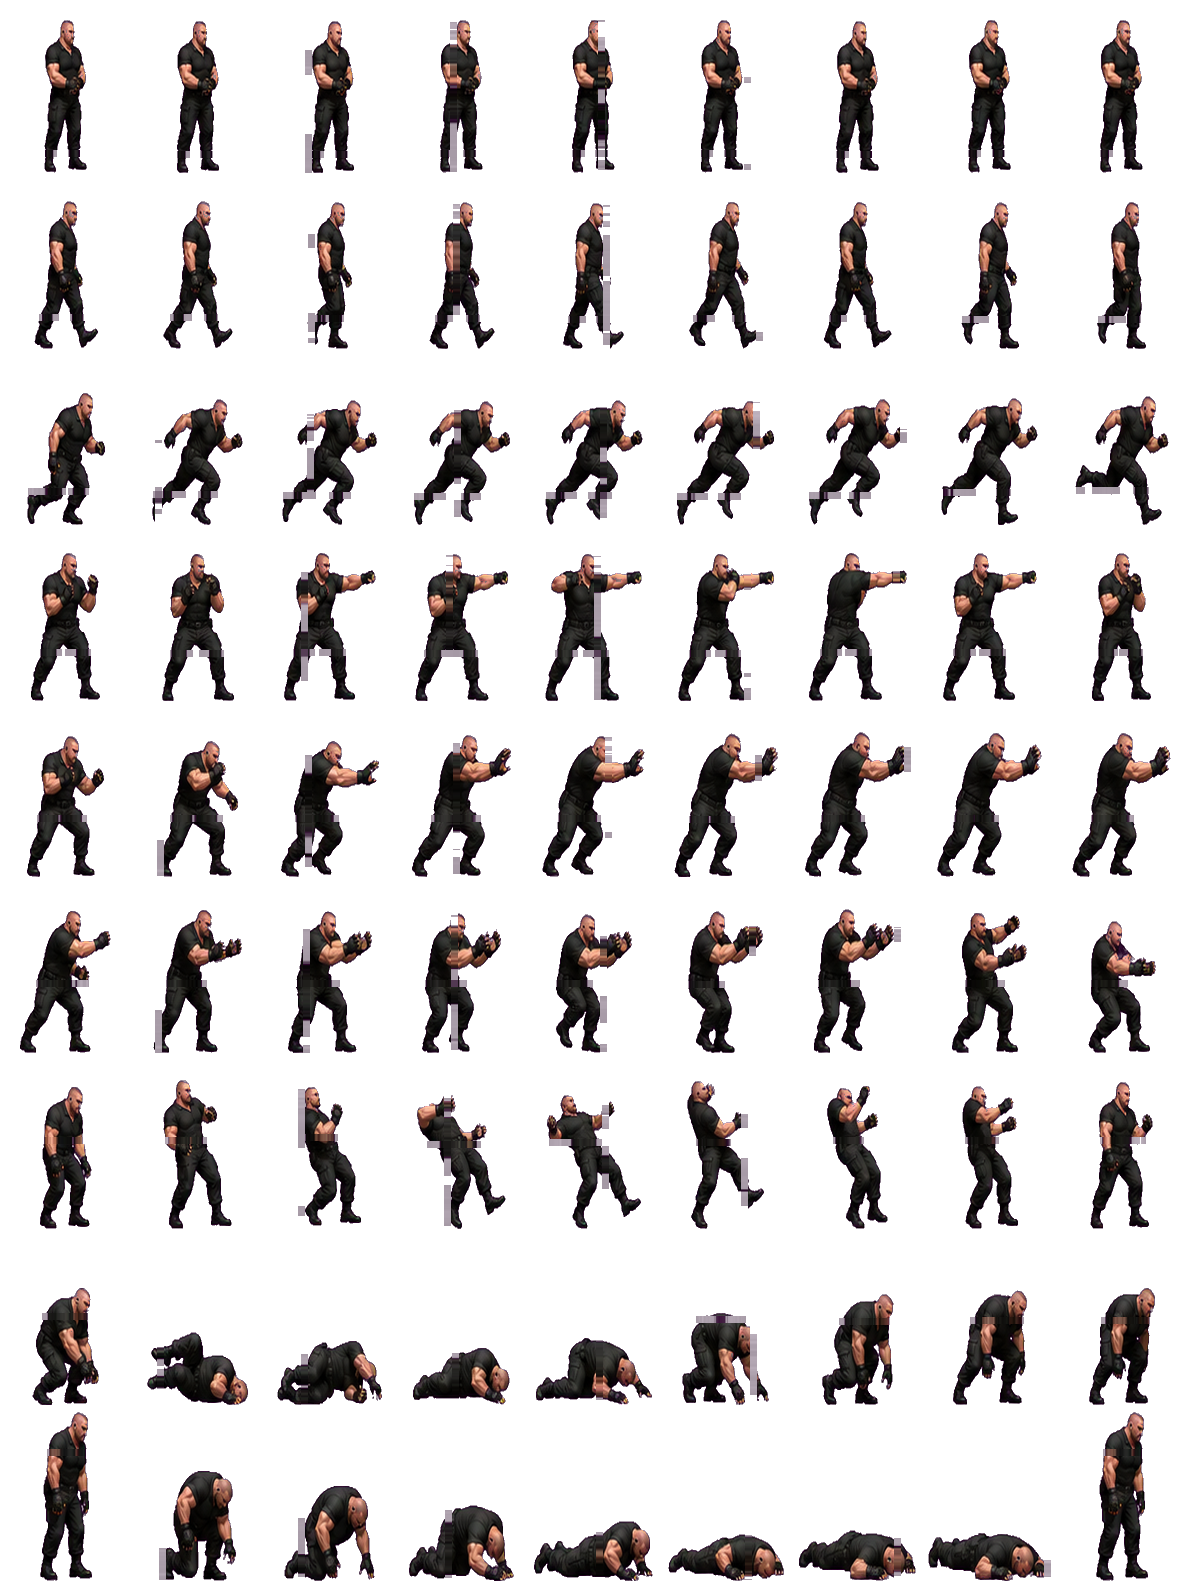
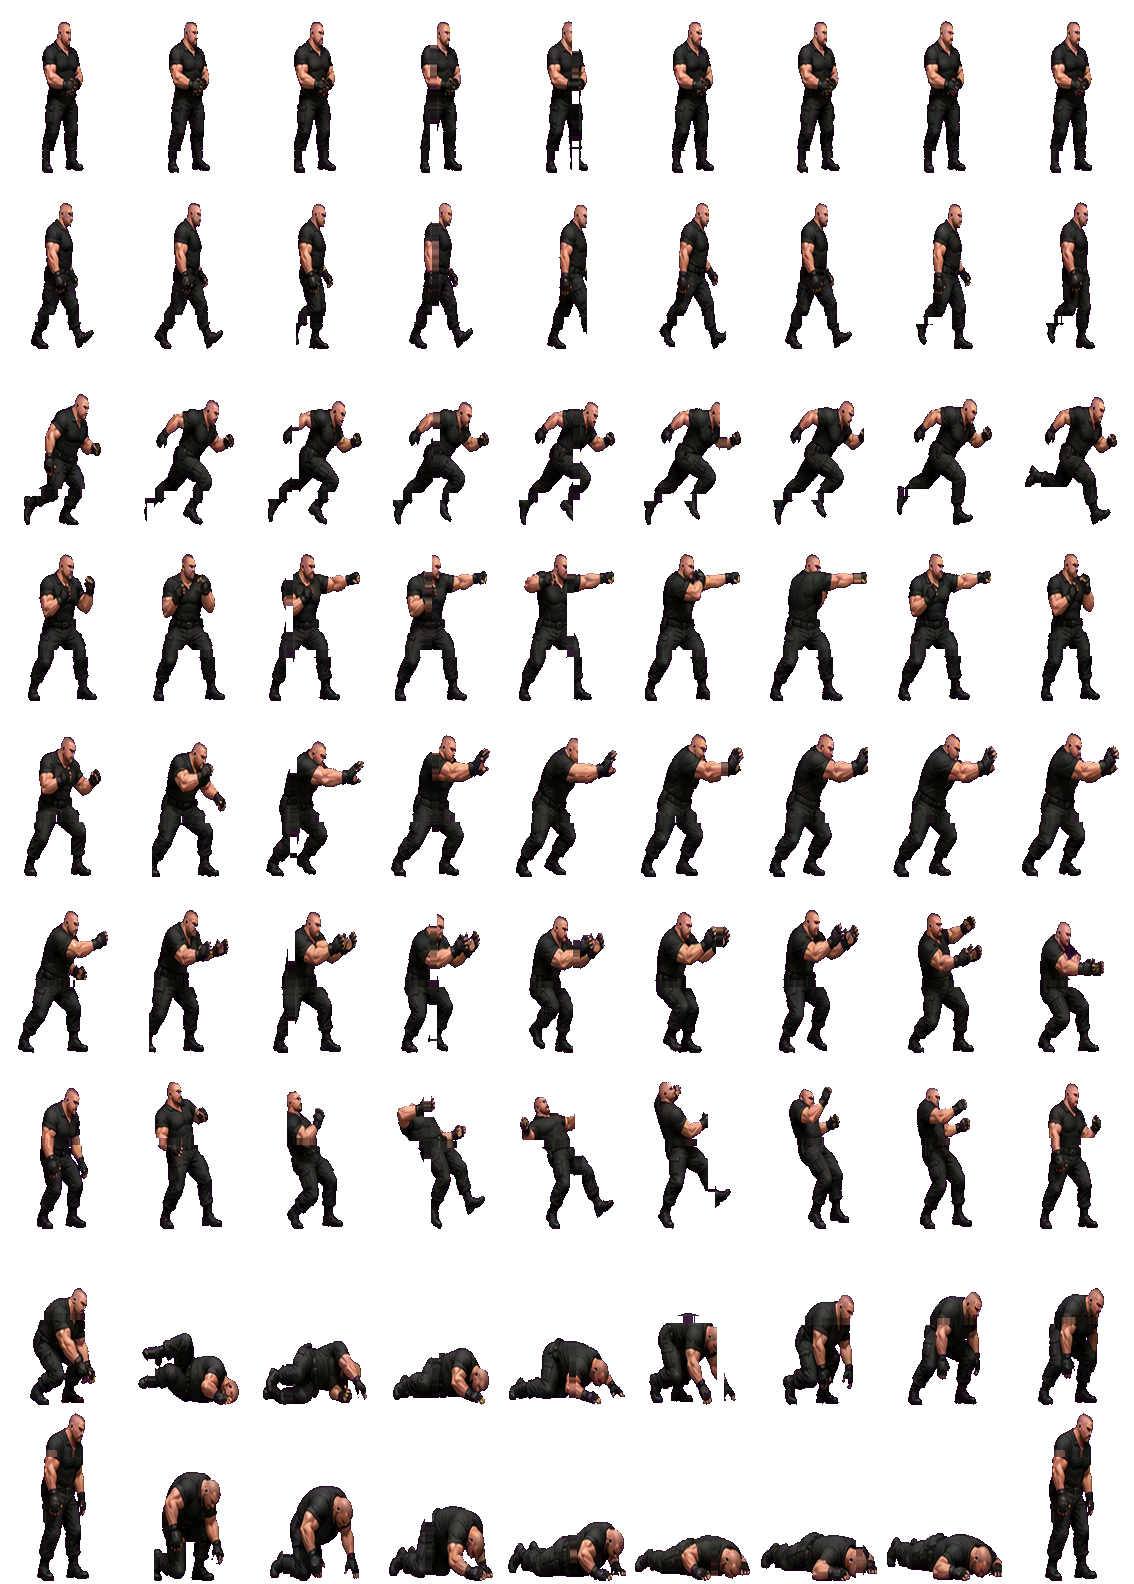
feat: solid 2.5D obstacle collision + crisp sprite edges (Hito 061)
Objects were walk-through scenery — a flat-2D feel in a 2.5D brawler.
Adds a pure Solids module (ground-plane AABB footprints with height,
least-penetration slide resolution, airborne clearance) applied to the
player and every enemy. Standing breakables now block movement using the
collision boxes their manifest always had (breaking one opens the path),
and key props (lamp post, bench, bicycle, carts, lectern) gain solid
footprints, world-anchored so pixels and collision coincide. Also hardens
the magenta key-out to fully-opaque/fully-clear edges, removing the
blurry semi-transparent fringe around scaled-up characters. Verified by
measurement: walking into the crate stops at exactly the predicted x,
jumping clears it.

Claude-Session: https://claude.ai/code/session_015d4moUT3CZTVWv6A6eLtPh

diff --git a/src/game/scenes/GameScene.ts b/src/game/scenes/GameScene.ts
@@ -6,11 +6,14 @@ import {
   GROUND_Z,
   FIXED_TIMESTEP,
   MAX_DELTA,
+  DEPTH_SCALE,
   worldToScreen,
   applyFriction,
   isOnGround,
 } from '../core/Physics25D';
 import { clampEntityToLane, buildPlayerPushbox } from '../core/Pushbox';
+import { resolveSolids } from '../core/Solids';
+import type { SolidVolume } from '../core/Solids';
 import type { StageLane } from '../core/Pushbox';
 import { CameraSystem, createDefaultCameraConfig, SHAKE_LIGHT, SHAKE_MEDIUM } from '../systems/CameraSystem';
 import { InputManager } from '../systems/input/InputManager';
@@ -132,6 +135,8 @@ export class GameScene extends Phaser.Scene {
   private enemySprites: Phaser.GameObjects.Sprite[] = [];
   private enemyLabels: Phaser.GameObjects.Text[] = [];
   private enemyLifts: Phaser.GameObjects.Sprite[] = [];
+  /** world-anchored solid prop footprints for this stage */
+  private propSolids: SolidVolume[] = [];
 
   private grabbedEnemyIndex = -1;
   private hitstopFrames = 0;
@@ -318,6 +323,26 @@ export class GameScene extends Phaser.Scene {
     }
     const props = new PropSystem(this, this.stageId);
     if (props.isReady) this.props = props;
+
+    // Solid prop footprints, converted from their screen anchor to world
+    // coordinates (inverse of worldToScreen at z=0 with the fixed floor cam).
+    this.propSolids = props.solidProps().map((p) => ({
+      x: p.worldX,
+      y: (p.groundScreenY - FLOOR_OFFSET) / DEPTH_SCALE,
+      halfW: p.footprint.halfW,
+      halfD: p.footprint.halfD,
+      height: p.footprint.height,
+    }));
+  }
+
+  /** Live obstacle set: world props plus every still-standing breakable. */
+  private collectSolids(): SolidVolume[] {
+    const out = [...this.propSolids];
+    for (const b of this.breakables) {
+      if (b.destroyed) continue;
+      out.push({ x: b.x, y: b.y, halfW: b.def.halfW, halfD: b.def.halfD, height: 55 });
+    }
+    return out;
   }
 
   private spawnBreakables(): void {
@@ -1336,6 +1361,13 @@ export class GameScene extends Phaser.Scene {
     this.playerPos.x = clamped.x;
     this.playerPos.y = clamped.y;
 
+    // Solid obstacles (crates, lamp posts, benches) block movement on the
+    // ground plane — jumping over the low ones is allowed (§ colisión 2.5D).
+    const solids = this.collectSolids();
+    const solved = resolveSolids(this.playerPos.x, this.playerPos.y, pb.halfW, pb.halfD, this.playerPos.z, solids);
+    this.playerPos.x = solved.x;
+    this.playerPos.y = solved.y;
+
     // Encounter movement gate: can't leave an active arena until it clears.
     this.playerPos.x = Math.max(this.waveGateMinX, Math.min(this.playerPos.x, this.waveSystem.gateX));
 
@@ -1349,6 +1381,10 @@ export class GameScene extends Phaser.Scene {
       const allow = attackingNow < MAX_ATTACKERS;
       enemy.tickPhysics(this.playerPos.x, this.playerPos.y, STAGE_LANE, allow);
       if (!wasAttacking && enemy.fsm.isAttacking()) attackingNow++;
+      // Enemies respect the same solid obstacles as the player.
+      const fixed = resolveSolids(enemy.pos.x, enemy.pos.y, enemy.halfW, enemy.halfD, enemy.pos.z, solids);
+      enemy.pos.x = fixed.x;
+      enemy.pos.y = fixed.y;
 
       // Telegraph a freshly-committed boss attack with a distinct tell.
       if (enemy.attackJustStarted) {

diff --git a/src/game/systems/PropSystem.ts b/src/game/systems/PropSystem.ts
@@ -1,8 +1,8 @@
 import Phaser from 'phaser';
 import { GAME_WIDTH } from '../config/GameConfig';
 import { propKey } from './AssetLoader';
-import { propsForStage, propScreenX } from '../data/PropManifest';
-import type { PropDef } from '../data/PropManifest';
+import { propsForStage, propScreenX, solidFootprintFor } from '../data/PropManifest';
+import type { PropDef, SolidFootprint } from '../data/PropManifest';
 
 /** Render depth for each parallax layer. */
 const BACK_DEPTH = -900; // behind the fighters, in front of the painted panels
@@ -18,6 +18,14 @@ const PROP_SCALE_MULT = 0.72;
 interface PropSprite {
   def: PropDef;
   sprite: Phaser.GameObjects.Image;
+  /** solid props are world-anchored (parallax 1) and block movement */
+  parallax: number;
+}
+
+export interface PlacedSolidProp {
+  worldX: number;
+  groundScreenY: number;
+  footprint: SolidFootprint;
 }
 
 /**
@@ -40,8 +48,22 @@ export class PropSystem {
         .setDepth(def.layer === 'front' ? FRONT_DEPTH : BACK_DEPTH);
       if (def.flip) sprite.setFlipX(true);
       if (def.alpha !== undefined) sprite.setAlpha(def.alpha);
-      this.items.push({ def, sprite });
+      // Solid front props are pinned to the street (parallax 1) so their
+      // collision footprint and their pixels stay in the same place.
+      const solid = def.layer === 'front' && solidFootprintFor(def.id);
+      this.items.push({ def, sprite, parallax: solid ? 1 : def.parallax });
     }
+  }
+
+  /** World-anchored footprints of the solid props placed on this stage. */
+  solidProps(): PlacedSolidProp[] {
+    const out: PlacedSolidProp[] = [];
+    for (const { def, parallax } of this.items) {
+      if (def.layer !== 'front' || parallax !== 1) continue;
+      const footprint = solidFootprintFor(def.id);
+      if (footprint) out.push({ worldX: def.worldX, groundScreenY: def.groundScreenY, footprint });
+    }
+    return out;
   }
 
   /** True if any prop actually loaded. */
@@ -51,8 +73,8 @@ export class PropSystem {
 
   /** Scroll every prop for the current camera position, culling off-screen. */
   update(cameraWorldX: number): void {
-    for (const { def, sprite } of this.items) {
-      const x = propScreenX(def.worldX, cameraWorldX, def.parallax);
+    for (const { def, sprite, parallax } of this.items) {
+      const x = propScreenX(def.worldX, cameraWorldX, parallax);
       const halfW = sprite.displayWidth / 2 + CULL_MARGIN;
       if (x < -halfW || x > GAME_WIDTH + halfW) {
         sprite.setVisible(false);

diff --git a/tests/unit/Solids.test.ts b/tests/unit/Solids.test.ts
@@ -1,0 +1,55 @@
+import { describe, it, expect } from 'vitest';
+import { resolveSolids, overlapsAnySolid } from '../../src/game/core/Solids';
+import type { SolidVolume } from '../../src/game/core/Solids';
+
+const crate: SolidVolume = { x: 100, y: 100, halfW: 34, halfD: 22, height: 55 };
+
+describe('resolveSolids', () => {
+  it('leaves a non-overlapping entity untouched', () => {
+    const r = resolveSolids(300, 300, 20, 18, 0, [crate]);
+    expect(r).toEqual({ x: 300, y: 300 });
+  });
+
+  it('pushes out along X when X penetration is smaller', () => {
+    // entity slightly inside the crate's right edge
+    const r = resolveSolids(140, 100, 20, 18, 0, [crate]);
+    expect(r.x).toBe(154); // 100 + 34 + 20
+    expect(r.y).toBe(100);
+  });
+
+  it('pushes out along Y when Y penetration is smaller', () => {
+    const r = resolveSolids(100, 135, 20, 18, 0, [crate]);
+    expect(r.y).toBe(140); // 100 + 22 + 18
+    expect(r.x).toBe(100);
+  });
+
+  it('pushes left/up for entities on the negative side', () => {
+    const left = resolveSolids(60, 100, 20, 18, 0, [crate]);
+    expect(left.x).toBe(46); // 100 - 34 - 20
+    const above = resolveSolids(100, 65, 20, 18, 0, [crate]);
+    expect(above.y).toBe(60); // 100 - 22 - 18
+  });
+
+  it('lets an airborne entity pass over a low obstacle', () => {
+    const r = resolveSolids(100, 100, 20, 18, 80, [crate]);
+    expect(r).toEqual({ x: 100, y: 100 }); // z 80 > height 55
+  });
+
+  it('still blocks below the obstacle height', () => {
+    const r = resolveSolids(140, 100, 20, 18, 30, [crate]);
+    expect(r.x).toBe(154);
+  });
+
+  it('settles clear of two nearby solids', () => {
+    const wall: SolidVolume = { x: 220, y: 100, halfW: 10, halfD: 60, height: 200 };
+    const r = resolveSolids(140, 100, 20, 18, 0, [crate, wall]);
+    expect(overlapsAnySolid(r.x, r.y, 20, 18, [crate, wall])).toBe(false);
+  });
+});
+
+describe('overlapsAnySolid', () => {
+  it('detects footprint overlap and clear space', () => {
+    expect(overlapsAnySolid(120, 110, 20, 18, [crate])).toBe(true);
+    expect(overlapsAnySolid(300, 300, 20, 18, [crate])).toBe(false);
+  });
+});

diff --git a/src/game/core/Solids.ts b/src/game/core/Solids.ts
@@ -1,0 +1,72 @@
+/**
+ * Solid obstacle volumes (2.5D). A solid is an axis-aligned footprint on the
+ * ground plane (world X/Y) with a height: fighters cannot walk through it,
+ * but an entity airborne above its height clears it (jumping over a crate).
+ * Pure functions — GameScene feeds footprints from breakables and props.
+ */
+
+export interface SolidVolume {
+  /** footprint centre in world coordinates */
+  x: number;
+  y: number;
+  halfW: number;
+  halfD: number;
+  /** how tall the obstacle stands; entities with z above this pass over */
+  height: number;
+}
+
+/**
+ * Push an entity's footprint out of every solid it overlaps. Resolution is
+ * along the axis of least penetration (the standard beat'em up "slide along
+ * the crate" feel). Two passes settle corner cases where resolving one solid
+ * pushes into another.
+ */
+export function resolveSolids(
+  x: number,
+  y: number,
+  halfW: number,
+  halfD: number,
+  z: number,
+  solids: readonly SolidVolume[],
+): { x: number; y: number } {
+  let px = x;
+  let py = y;
+  for (let pass = 0; pass < 2; pass++) {
+    let moved = false;
+    for (const s of solids) {
+      if (z > s.height) continue; // airborne above the obstacle
+      const dx = px - s.x;
+      const dy = py - s.y;
+      const overlapX = halfW + s.halfW - Math.abs(dx);
+      const overlapY = halfD + s.halfD - Math.abs(dy);
+      if (overlapX <= 0 || overlapY <= 0) continue;
+      if (overlapX < overlapY) {
+        px += dx >= 0 ? overlapX : -overlapX;
+      } else {
+        py += dy >= 0 ? overlapY : -overlapY;
+      }
+      moved = true;
+    }
+    if (!moved) break;
+  }
+  return { x: px, y: py };
+}
+
+/** True when the footprint overlaps any solid at ground level (spawn checks). */
+export function overlapsAnySolid(
+  x: number,
+  y: number,
+  halfW: number,
+  halfD: number,
+  solids: readonly SolidVolume[],
+): boolean {
+  for (const s of solids) {
+    if (
+      Math.abs(x - s.x) < halfW + s.halfW &&
+      Math.abs(y - s.y) < halfD + s.halfD
+    ) {
+      return true;
+    }
+  }
+  return false;
+}

diff --git a/src/game/data/AnimationData.ts b/src/game/data/AnimationData.ts
@@ -28,17 +28,17 @@ export interface CharacterGrid {
 
 /** Per-sheet frame geometry. Keyed by texture key. */
 export const CHARACTER_GRIDS: Record<string, CharacterGrid> = {
-  mostasa: { frameWidth: 122, frameHeight: 210, cols: 10, rows: 9 },
-  enemy_001: { frameWidth: 164, frameHeight: 184, cols: 10, rows: 8 },
-  enemy_002: { frameWidth: 172, frameHeight: 200, cols: 9, rows: 8 },
-  enemy_003: { frameWidth: 152, frameHeight: 198, cols: 9, rows: 8 },
-  enemy_004: { frameWidth: 132, frameHeight: 176, cols: 9, rows: 9 },
+  mostasa: { frameWidth: 118, frameHeight: 208, cols: 10, rows: 9 },
+  enemy_001: { frameWidth: 162, frameHeight: 182, cols: 10, rows: 8 },
+  enemy_002: { frameWidth: 170, frameHeight: 200, cols: 9, rows: 8 },
+  enemy_003: { frameWidth: 150, frameHeight: 198, cols: 9, rows: 8 },
+  enemy_004: { frameWidth: 126, frameHeight: 176, cols: 9, rows: 9 },
   enemy_005: { frameWidth: 108, frameHeight: 168, cols: 10, rows: 9 },
-  enemy_006: { frameWidth: 130, frameHeight: 176, cols: 10, rows: 9 },
+  enemy_006: { frameWidth: 130, frameHeight: 168, cols: 10, rows: 9 },
   enemy_007: { frameWidth: 166, frameHeight: 188, cols: 9, rows: 8 },
-  enemy_008: { frameWidth: 170, frameHeight: 180, cols: 10, rows: 8 },
-  enemy_009: { frameWidth: 226, frameHeight: 166, cols: 8, rows: 10 },
-  enemy_010: { frameWidth: 134, frameHeight: 204, cols: 10, rows: 9 },
+  enemy_008: { frameWidth: 168, frameHeight: 178, cols: 10, rows: 8 },
+  enemy_009: { frameWidth: 226, frameHeight: 164, cols: 8, rows: 10 },
+  enemy_010: { frameWidth: 130, frameHeight: 204, cols: 10, rows: 9 },
 };
 
 export function gridFor(spriteKey: string): CharacterGrid {

diff --git a/src/game/data/PropManifest.ts b/src/game/data/PropManifest.ts
@@ -33,6 +33,31 @@ export function propScreenX(worldX: number, cameraWorldX: number, parallax: numb
 }
 
 /**
+ * Ground footprint for props that physically block movement (§ colisión 2.5D).
+ * A front-layer prop with an entry here is world-anchored (parallax forced to
+ * 1) and fighters collide with its footprint instead of walking through it.
+ * halfW/halfD are world units; height gates jumping over.
+ */
+export interface SolidFootprint {
+  halfW: number;
+  halfD: number;
+  height: number;
+}
+
+export const SOLID_PROP_FOOTPRINTS: Record<string, SolidFootprint> = {
+  farol_estacion: { halfW: 20, halfD: 12, height: 240 },
+  banco_anden: { halfW: 48, halfD: 14, height: 45 },
+  bicicleta_reparto: { halfW: 42, halfD: 10, height: 70 },
+  carrito_carga: { halfW: 36, halfD: 14, height: 80 },
+  carrito_expedientes: { halfW: 38, halfD: 14, height: 90 },
+  atril_ficticio: { halfW: 26, halfD: 12, height: 110 },
+};
+
+export function solidFootprintFor(propId: string): SolidFootprint | undefined {
+  return SOLID_PROP_FOOTPRINTS[propId];
+}
+
+/**
  * Once — "La noche de los trapitos". A grimy market street at night: metal
  * shutters and torn posters on the walls behind, street lamps and junk in the
  * immediate foreground.

diff --git a/docs/PRODUCTION_STATE.md b/docs/PRODUCTION_STATE.md
@@ -895,6 +895,32 @@
   proporción (tank 320px, miniboss ~360, boss ~400 — presencia de jefe)
 - Verificado midiendo displayHeight en vivo (273 / 272 / 320) + captura
 
+### HITO 061 — Colisión 2.5D sólida + bordes nítidos ✅
+- Feedback: "el personaje no puede simplemente atravesar los objetos; esto es
+  2.5D, no un 2D plano" + "partes borrosas". Ambos corregidos y verificados
+- **`core/Solids.ts`** (puro, nuevo): volúmenes sólidos con huella en el plano
+  del suelo (x, y, halfW, halfD) + altura; `resolveSolids` empuja al que pisa
+  el volumen por el eje de menor penetración (deslizamiento clásico contra el
+  cajón) en dos pasadas; si la entidad está en el aire por encima de la altura
+  del objeto, pasa (saltás el cajón). `overlapsAnySolid` para checks. 8 tests
+- **Rompibles sólidos:** las cajas de colisión que ya existían en
+  `BreakableManifest` (halfW/halfD) ahora bloquean de verdad mientras el
+  objeto no esté destruido (al romperlo, se abre el paso)
+- **Props sólidos:** `SOLID_PROP_FOOTPRINTS` en PropManifest (farol, banco,
+  bicicleta, carritos, atril); esos props se anclan al mundo (parallax
+  forzado a 1) para que su huella y sus píxeles coincidan; PropSystem expone
+  `solidProps()` y GameScene los convierte a coordenadas de mundo (inversa de
+  worldToScreen en z=0). Jugador y enemigos resuelven contra el mismo set
+- **Bordes nítidos:** el key-out de magenta ya no deja franja semitransparente
+  (borroso al escalar); despill con alpha duro (opaco o transparente) →
+  siluetas limpias. Hojas regeneradas; grillas actualizadas (mismas
+  filas/columnas, celdas ~2px más ajustadas)
+- Verificado en Chromium headless con medición exacta: cajón en x=720
+  (mitad 34), pushbox 20 → posición bloqueada teórica 666; tras caminar 1.1s
+  contra el cajón el jugador queda en **x=666 exacto**; con salto lo cruza
+  por arriba y aterriza en x=780. Captura de composición adjunta
+- 440 tests en verde (34 archivos); typecheck/lint/build limpios
+
 ## HITOS PENDIENTES
 
 - ... (hitos 052-060)
@@ -970,7 +996,8 @@ Ver `docs/adr/` para Architecture Decision Records.
 | PropManifest.test.ts            | 8      | ✅ OK  |
 | CampaignProgress.test.ts        | 11     | ✅ OK  |
 | StageData.test.ts               | 34     | ✅ OK  |
-| **Total**                       | **432**| ✅ OK  |
+| Solids.test.ts                  | 8      | ✅ OK  |
+| **Total**                       | **440**| ✅ OK  |
 
 ---
 
